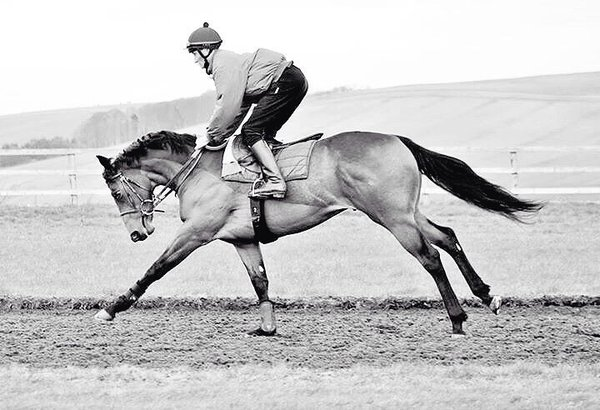
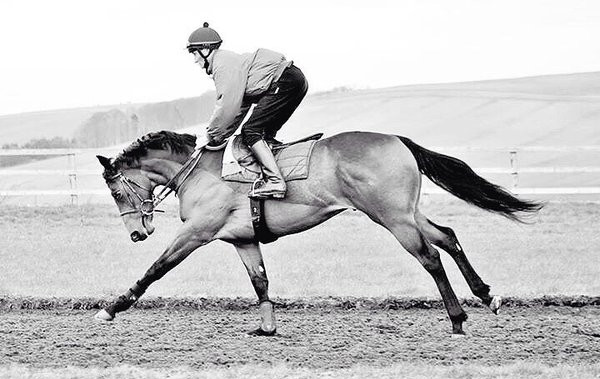
Resized images for consistency

diff --git a/_includes/sidebar.html b/_includes/sidebar.html
@@ -46,7 +46,7 @@
 <!--New images on load -->
 <script>
 //Add your images, we'll set the path in the next step
-    var images = ['coolcousin1.jpg', 'coolcousin2.jpg', 'coolcousin3.jpg', 'coolcousin4.jpg'];
+    var images = ['coolcousin1.jpg', 'coolcousin2.jpg', 'coolcousin4.jpg'];
     
 //Build the img, then do a bit of maths to randomize load and append to a div. Add a touch off css to fade them badboys in all sexy like.
     $('<img src="/public/img/' + images[Math.floor(Math.random() * images.length)] + '">').appendTo('#banner-load');

diff --git a/public/css/hyde.css b/public/css/hyde.css
@@ -134,7 +134,7 @@ h1, h2, h3, h4, h5, h6 {
 
 #_menu {
   display: block;
-  position: absolute;
+  position: fixed;
   top: 0rem;
   left: 0.5rem;
   padding: 1.25rem 1rem ;
